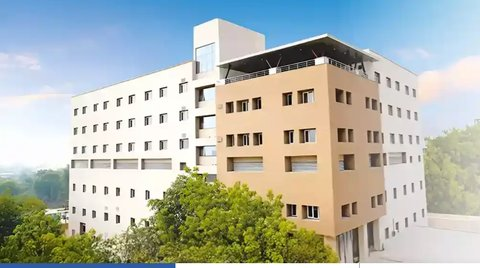
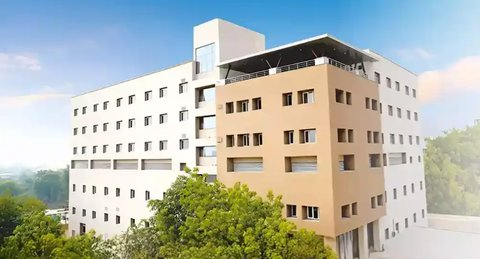
Sign-in: show all 8 units at once, contain-fit so nothing gets cropped
Reverted the split-screen single-photo panel back to showing all 8 units
together, per feedback that only ever showing one wasn't the goal --
but without reintroducing the original grid's crop problem. Each cell now
layers a sharp, fully-visible contain-fit photo over a blurred, darkened
cover-fit copy of the very same photo filling whatever the sharp one
doesn't reach, so the letterboxing a plain contain-fit would otherwise
leave as flat bars becomes soft color instead. No photo is ever cropped
into losing part of the building, worst previously on Panchkula and
Srinagar.

Also trimmed a stray line off the bottom of the Udaipur photo -- the top
edge of a small preview thumbnail from the original banner graphic was
bleeding into the crop.

Claude-Session: https://claude.ai/code/session_01Gu9ZwzazMgMxwRpnHrR1vi

diff --git a/assets/css/command-centre.css b/assets/css/command-centre.css
@@ -653,17 +653,9 @@ a{color:var(--brand-soft); text-decoration:none;}
 :root[data-locked] body{overflow:hidden;}
 :root[data-locked] .app{visibility:hidden; pointer-events:none;}
 
-/* Split screen: sign-in form on one side, one large unit photo on the
-   other -- the standard pattern for an enterprise sign-in page's brand
-   panel. Replaces an earlier attempt at tiling all 8 photos in a grid
-   behind the form: a grid divides the viewport into cells far narrower
-   than these photos' own landscape shape, so object-fit:cover had to zoom
-   in hard and cropped away most of each building. One photo filling one
-   whole (roughly half-width, full-height) pane keeps far more of the shot
-   intact, and reads as considered brand photography rather than a busy
-   collage competing with the form. */
 .gate{
   position:fixed; inset:0; z-index:200; display:none;
+  align-items:center; justify-content:center; padding:28px 20px; overflow:auto;
   transition:opacity .4s var(--ease);
   /* Lighter than the workspace behind it: the sign-in screen is the first
      thing seen, and the reversed logo needs a ground to sit on. */
@@ -677,71 +669,56 @@ a{color:var(--brand-soft); text-decoration:none;}
     #E8EEF6;
 }
 .gate.gone{opacity:0; pointer-events:none;}
-
-.gate-form-pane{
-  position:relative; flex:1 1 50%; min-width:0; height:100%;
-  display:flex; align-items:center; justify-content:center;
-  padding:28px 20px; overflow:auto;
-}
 .gate-bg{position:absolute; inset:0; overflow:hidden; pointer-events:none;}
+
+/* All 8 units, shown at once, filling the page behind the sign-in form --
+   never labelled, no names or captions on top of a photo. Two earlier
+   attempts and why they're not this one: a plain grid with cover-cropped
+   photos zoomed in on a narrow sliver of each building (a cell's shape
+   rarely matches these photos' own landscape aspect ratio, worst on
+   Panchkula and Srinagar); a single cross-fading photo avoided that crop
+   but only ever showed one unit at a time. This keeps all 8 on screen AND
+   never crops the subject: each cell layers a sharp, fully-visible
+   contain-fit photo (.gate-photo-sharp) over a blurred, darkened cover-fit
+   copy of the very same photo (.gate-photo-blur) filling whatever the
+   sharp one doesn't reach -- the letterboxing a plain contain-fit would
+   otherwise leave as flat bars becomes soft color instead, the same trick
+   Spotify/Apple Music use for mixed-aspect-ratio artwork. A hairline gap
+   between cells (the page's own gradient shows through) reads as a
+   curated gallery grid rather than a flat wallpaper tile, and the brand
+   wash over the top (::after) ties it back to the Paras palette instead
+   of just looking like faded stock photography. */
+.gate-photos{
+  position:absolute; inset:0; display:grid;
+  grid-template-columns:repeat(4,1fr); grid-template-rows:repeat(2,1fr);
+  gap:3px; opacity:.6;
+}
+.gate-photo-cell{position:relative; overflow:hidden;}
+.gate-photo-blur{
+  position:absolute; inset:-15%; width:130%; height:130%; object-fit:cover; display:block;
+  filter:blur(22px) saturate(130%) brightness(.7);
+}
+.gate-photo-sharp{
+  position:relative; z-index:1; width:100%; height:100%; object-fit:contain; display:block;
+  filter:saturate(122%) contrast(1.05);
+}
+.gate-photos::after{
+  content:""; position:absolute; inset:0;
+  background:linear-gradient(150deg, rgba(20,38,74,.5) 0%, rgba(21,128,128,.28) 48%, rgba(9,16,32,.6) 100%);
+}
+:root[data-theme="light"] .gate-photos{opacity:.42;}
+:root[data-theme="light"] .gate-photos::after{
+  background:linear-gradient(150deg, rgba(255,255,255,.5) 0%, rgba(214,232,248,.24) 48%, rgba(20,38,74,.26) 100%);
+}
+@media (max-width:700px){
+  .gate-photos{grid-template-columns:repeat(2,1fr); grid-template-rows:repeat(4,1fr);}
+}
+
 .gate-bg i{position:absolute; border-radius:50%; filter:blur(90px); display:block;}
 .gate-bg i:nth-child(1){width:680px;height:680px;top:-260px;left:-190px;background:radial-gradient(circle,#4E86E0,transparent 70%);opacity:.30;animation:drift1 26s ease-in-out infinite;}
 .gate-bg i:nth-child(2){width:600px;height:600px;bottom:-240px;right:-170px;background:radial-gradient(circle,#1FB3A8,transparent 70%);opacity:.18;animation:drift2 32s ease-in-out infinite;}
 :root[data-theme="light"] .gate-bg i:nth-child(1){opacity:.18;}
 :root[data-theme="light"] .gate-bg i:nth-child(2){opacity:.10;}
-
-/* Brand panel: one unit's photo at a time, slowly cross-fading through all
-   8 with a slight continuous zoom (a "Ken Burns" pan/zoom, the standard
-   move for a single still photo held on screen for several seconds --
-   without it the same shot would just look frozen/stock). Each image
-   shares one animation, staggered by -1x its slot length so, at any
-   moment, exactly one is mid-visible while the rest sit at opacity 0 --
-   cheap (CSS only, nothing waits on JS) and never shows two photos
-   cross-faded into a muddy double-exposure. */
-.gate-photo-pane{position:relative; flex:1 1 50%; overflow:hidden;}
-.gate-photo-stack{position:absolute; inset:0;}
-.gate-photo-stack img{
-  position:absolute; inset:0; width:100%; height:100%; object-fit:cover;
-  opacity:0; transform:scale(1.04);
-  filter:saturate(122%) contrast(1.05);
-  animation:gatePhotoCycle 48s ease-in-out infinite;
-}
-.gate-photo-stack img:nth-child(1){animation-delay:0s;}
-.gate-photo-stack img:nth-child(2){animation-delay:-6s;}
-.gate-photo-stack img:nth-child(3){animation-delay:-12s;}
-.gate-photo-stack img:nth-child(4){animation-delay:-18s;}
-.gate-photo-stack img:nth-child(5){animation-delay:-24s;}
-.gate-photo-stack img:nth-child(6){animation-delay:-30s;}
-.gate-photo-stack img:nth-child(7){animation-delay:-36s;}
-.gate-photo-stack img:nth-child(8){animation-delay:-42s;}
-@keyframes gatePhotoCycle{
-  0%{opacity:0; transform:scale(1.0);}
-  3%{opacity:1;}
-  10%{opacity:1; transform:scale(1.07);}
-  14%{opacity:0;}
-  100%{opacity:0; transform:scale(1.1);}
-}
-/* A diagonal brand wash, not a flat scrim -- ties the photo back to the
-   Paras palette instead of it just looking like generic stock photography,
-   while still darkening the bottom edge enough for the (currently empty)
-   caption area a future build might add there. */
-.gate-photo-stack::after{
-  content:""; position:absolute; inset:0;
-  background:linear-gradient(200deg, rgba(20,38,74,.14) 0%, rgba(21,128,128,.22) 45%, rgba(9,16,32,.62) 100%);
-}
-:root[data-theme="light"] .gate-photo-stack::after{
-  background:linear-gradient(200deg, rgba(255,255,255,.06) 0%, rgba(214,232,248,.16) 45%, rgba(20,38,74,.30) 100%);
-}
-@media (prefers-reduced-motion:reduce){
-  .gate-photo-stack img{animation:none; opacity:0; transform:none;}
-  .gate-photo-stack img:first-child{opacity:1;}
-}
-@media (max-width:860px){
-  /* A phone pays for loading 8 photos it will never usefully see at this
-     width -- hidden outright, not just shrunk, same reasoning the SaaS
-     login research above gives for keeping mobile sign-in lean. */
-  .gate-photo-pane{display:none;}
-}
 
 .gate-inner{position:relative; width:100%; max-width:492px; display:flex; flex-direction:column; align-items:center; transition:max-width .25s var(--ease);}
 .gate-inner.wide{max-width:600px;}

diff --git a/index.html b/index.html
@@ -13,8 +13,49 @@
 <div class="bg-field" aria-hidden="true"><i></i><i></i><i></i></div>
 <!-- ============================== SIGN IN =============================== -->
 <div class="gate" id="gate">
- <div class="gate-form-pane">
-  <div class="gate-bg" aria-hidden="true"><i></i><i></i></div>
+  <div class="gate-bg" aria-hidden="true">
+    <!-- Photography only -- no names, no captions on top of any photo.
+         All 8 shown at once, each one contain-fit (never cropped) over a
+         blurred, darkened copy of itself filling the rest of its cell --
+         see the CSS for why: a grid cell's shape rarely matches these
+         photos' own landscape aspect ratio, and cover-cropping to fill a
+         mismatched cell was cutting real buildings out of the shot. -->
+    <div class="gate-photos">
+      <div class="gate-photo-cell">
+        <img class="gate-photo-blur" src="assets/img/units/ggn.jpg" alt="">
+        <img class="gate-photo-sharp" src="assets/img/units/ggn.jpg" alt="">
+      </div>
+      <div class="gate-photo-cell">
+        <img class="gate-photo-blur" src="assets/img/units/pat.jpg" alt="">
+        <img class="gate-photo-sharp" src="assets/img/units/pat.jpg" alt="">
+      </div>
+      <div class="gate-photo-cell">
+        <img class="gate-photo-blur" src="assets/img/units/pkl.jpg" alt="">
+        <img class="gate-photo-sharp" src="assets/img/units/pkl.jpg" alt="">
+      </div>
+      <div class="gate-photo-cell">
+        <img class="gate-photo-blur" src="assets/img/units/dbg.jpg" alt="">
+        <img class="gate-photo-sharp" src="assets/img/units/dbg.jpg" alt="">
+      </div>
+      <div class="gate-photo-cell">
+        <img class="gate-photo-blur" src="assets/img/units/udp.jpg" alt="">
+        <img class="gate-photo-sharp" src="assets/img/units/udp.jpg" alt="">
+      </div>
+      <div class="gate-photo-cell">
+        <img class="gate-photo-blur" src="assets/img/units/ran.jpg" alt="">
+        <img class="gate-photo-sharp" src="assets/img/units/ran.jpg" alt="">
+      </div>
+      <div class="gate-photo-cell">
+        <img class="gate-photo-blur" src="assets/img/units/srn.jpg" alt="">
+        <img class="gate-photo-sharp" src="assets/img/units/srn.jpg" alt="">
+      </div>
+      <div class="gate-photo-cell">
+        <img class="gate-photo-blur" src="assets/img/units/knp.jpg" alt="">
+        <img class="gate-photo-sharp" src="assets/img/units/knp.jpg" alt="">
+      </div>
+    </div>
+    <i></i><i></i>
+  </div>
 
   <div class="gate-inner" id="gateInner">
     <header class="gate-head">
@@ -269,25 +310,6 @@
       Local sign-in for this workstation. Nothing is sent anywhere — verification happens in this browser.
     </p>
   </div>
- </div>
-
- <!-- Photography only -- no names, no captions on top of a photo. One unit
-      at a time, slowly cross-fading through all 8, filling this whole pane
-      so each photo can be shown close to its own aspect ratio instead of
-      forced into a small cropped tile. Hidden on narrow screens (see the
-      CSS) rather than shrunk, so a phone never pays for loading it. -->
- <div class="gate-photo-pane" aria-hidden="true">
-   <div class="gate-photo-stack">
-     <img src="assets/img/units/ggn.jpg" alt="">
-     <img src="assets/img/units/pat.jpg" alt="">
-     <img src="assets/img/units/pkl.jpg" alt="">
-     <img src="assets/img/units/dbg.jpg" alt="">
-     <img src="assets/img/units/udp.jpg" alt="">
-     <img src="assets/img/units/ran.jpg" alt="">
-     <img src="assets/img/units/srn.jpg" alt="">
-     <img src="assets/img/units/knp.jpg" alt="">
-   </div>
- </div>
 
   <!-- Asked for once, at the moment the account is actually created --
        not sitting filled in on the sign-up screen the whole time someone is
